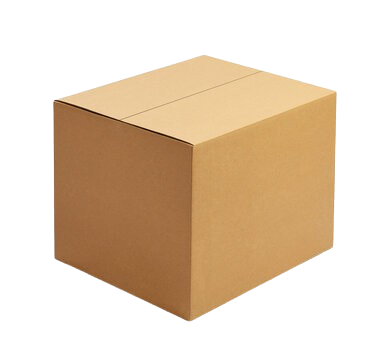
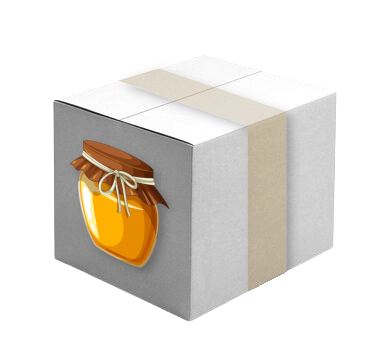
New png for box, settings bar added

diff --git a/script/game.js b/script/game.js
@@ -5,6 +5,7 @@ import { ClickImprovement } from './clickImprovement.js';
 import { ErrorManager, notEnoughError } from './errorManager.js';
 
 export class Game {
+    static settingsbutton = document.getElementById('settings');
     static deleteStoredDataButton = document.getElementById('deleteButton');
     static addButtonElement = document.getElementById('counterAdd');
     static currentTotal = 0;
@@ -21,7 +22,7 @@ export class Game {
     static startTimer = 0.0;
     static isSavingDisabled = false;
     static upgradeMap = new Map([
-        ["Honey-Maker", new Upgrade(1, 200, 1)],
+        ["Honey-Maker", new Upgrade(1, 200, 10)],
         ["Honey-Farm", new Upgrade(4, 500, 200)],
         ["Honey-Miner", new Upgrade(10, 10000, 2000)]
     ]);
@@ -43,7 +44,7 @@ export class Game {
 
     static initialize() {
         this.autoInterval = setInterval(this.refreshTimer.bind(this), 500);
-        this.onResize();
+
         this.idleFarmerElements.forEach((element) => {
             const name = element.getAttribute('data-upgrade');
             const upgrade = this.upgradeMap.get(name);
@@ -54,8 +55,9 @@ export class Game {
             upgrade.buttonUnlock.addEventListener('click', () => upgrade.onClickCounter());
             upgrade.buttonUpgrade.addEventListener('click', () => upgrade.onClickCounterUpgrade());
             upgrade.refreshSpeed();
+
         }, this);
-        this.refresh();
+        this.onResize();
     }
 
     static updateImage() {
@@ -69,7 +71,7 @@ export class Game {
     }
 
     static refresh() {
-        this.upgradeMap.forEach((upgrade) => upgrade.updateAvailableClass(this.totalEarned));
+        this.upgradeMap.forEach((upgrade) => upgrade.updateAvailableClass(this.totalEarned,this.currentTotal));
         const totalString = Math.floor(this.currentTotal).toLocaleString("en-us");
         document.title = `Honey : ${totalString}`;
         let config = this.updateImage();
@@ -186,7 +188,6 @@ export class Game {
             this.startTimer = state.startTimer;
 
             ClickImprovement.actualMilestone();
-            this.refresh();
         }
     }
 
@@ -199,11 +200,17 @@ export class Game {
             window.location.reload();
         }
     }
-}
 
+    static onClickSetting() {
+        this.settingsbutton.parentElement.parentElement.classList.toggle('active')
+    }
+}
 Game.loadState();
 Game.initialize();
+
+
 Game.update();
+Game.settingsbutton.addEventListener('click', ()=> Game.onClickSetting())
 Game.addButtonElement.addEventListener('mousedown', () => Game.onMouseDown());
 Game.deleteStoredDataButton.addEventListener('click', () => Game.clearState());
 ClickImprovement.improveClickElement.addEventListener('click', () => ClickImprovement.upgradeClick());

diff --git a/style.css b/style.css
@@ -2,33 +2,123 @@
 @import url('https://fonts.googleapis.com/css2?family=Varela+Round&display=swap');
 
 
-header {
-  position: fixed;
-    top: 0;
-    width: 100%;
-    height: 4dvh;
-    -webkit-text-stroke: 0px;
-    font-family: "Varela Round", sans-serif;
-    z-index: 2; 
 
-    
+
+
+
+#settingsBar {  
+  -webkit-text-stroke: 0px;
+  top: 1dvh;
+  position: fixed;
+  display: flex;
+  height: 0dvh;
+  flex-direction: column;
+  z-index: 1;
+  justify-content: space-between;
+  transition: 1s;
+  opacity: 1;
+  right: 0;
+}
+
+.settingsElement:first-child {
+  display: block;
+  z-index: 1;
+  opacity: 1;
+  pointer-events:auto;
+  
+}
+
+.settingsElement {
+  position: relative;
+  width: 0;
+  height: 0;
+  opacity: 0;
+  transition-delay: 1s;
 
 }
 
-span.material-symbols-outlined {
-  font-size: 24px; /* Taille de l'icône */
+.settingsElement > * {
+  position: absolute;
+  right: 0;
+  top: 0;
+}
+
+#settingsBar.active .settingsElement {
+  opacity: 1;
+  transition-delay: 0s;
+}
+
+#settingsBar.active {
+  height: 10dvh;
+}
+
+
+
+.settingsIcon {
+  margin-right: 1dvh;
+  padding: 0.5dvh;
+  border-radius: 50%;
+  transition: background 0.3s ease-in-out;
+  right: 0;
+  height: fit-content;
+  width: fit-content;
+
+}
+
+
+
+span.material-symbols-outlined.settingsIcon {
+  font-size: 1.5rem; /* Taille de l'icône */
   color: rgb(160, 0, 0);  /* Couleur de l'icône */
-  margin-top: 1dvh;
-  margin-left: 1dvh;
   padding: 0.5dvh;
   background: white;
   border-radius: 50%;
-  transition: background 0.3s ease-in-out;
+  
 }
+
+
 
 span.material-symbols-outlined:hover {
   background: grey;
   }
+
+
+
+#settings.material-symbols-outlined {
+  color: rgb(58, 58, 58);
+}
+
+
+
+
+
+
+
+
+
+
+
+
+
+
+
+
+
+
+
+
+
+
+
+
+
+
+
+
+
+
+
+
 
 
 
@@ -513,11 +603,10 @@ h1 {
     height: 6rem; 
     cursor: pointer;
     text-align: center;
+    background-color: var(--orange);
+    opacity: 1;
 }
 
-.counterAuto{
-    background-color: var(--orange);
-}
 
 
 .counterAutoUpgrade {
@@ -527,8 +616,28 @@ h1 {
  
 }
 
+
+.idleFarmer {
+  transition: opacity 0.6s ease;
+}
+
+
+.idleFarmer:not(.buyable) {
+  opacity: 0.5;
+  
+}
+
+.idleFarmer:not(.buyable) button {
+  background-color: grey;
+}
+
+.idleFarmer button {
+  transition: background-color 0.3s ease, opacity 0.3s ease;
+}
+
+
 .idleFarmer:not(.available) {
-  display: none;
+  opacity: 0;
 }
 
 /* .counterAuto:not(.available),.counterAutoUpgrade:not(.available) {

diff --git a/index.html b/index.html
@@ -8,13 +8,26 @@
   <link rel="preconnect" href="https://fonts.googleapis.com">
   <link rel="preconnect" href="https://fonts.gstatic.com" crossorigin>
   <link href="https://fonts.googleapis.com/css2?family=Roboto:ital,wght@0,100;0,300;0,400;0,500;0,700;0,900;1,100;1,300;1,400;1,500;1,700;1,900&display=swap" rel="stylesheet">
-  <link rel="stylesheet" href="https://fonts.googleapis.com/css2?family=Material+Symbols+Outlined:opsz,wght,FILL,GRAD@20..48,100..700,0..1,-50..200">
+  <link rel="stylesheet" href="https://fonts.googleapis.com/css2?family=Material+Symbols+Outlined&display=swap">
   <link rel="stylesheet" href="style.css">
 
   
 </head>
 <body>
-    <header><span id="deleteButton" class="material-symbols-outlined">delete</span></header>
+        <div id="settingsBar">
+        <div class="settingsElement">
+        <span id=settings  class="settingsIcon material-symbols-outlined" >settings</span>
+        </div>
+        <div class="settingsElement">
+            
+            <span id="deleteButton" class="settingsIcon material-symbols-outlined">delete</span>
+        </div>
+        <div class="settingsElement">
+            
+            <span id="deleteButton" class="settingsIcon material-symbols-outlined">delete</span>
+        </div>
+        </div>
+    
     
     <canvas id="newElementsContainer"></canvas>
     <div id="topPannel">

diff --git a/script/upgrade.js b/script/upgrade.js
@@ -27,10 +27,15 @@ export class Upgrade {
         this.refreshSpeed();
     }
 
-    updateAvailableClass(totalEarned) {
-        if (totalEarned >= this.milestones && this.element && this.element.classList) {
-            this.element.classList.add('available');
+    updateAvailableClass(totalEarned, totalCurrent) {
+        if (totalCurrent >= this.baseCost)  {
+            this.element.classList.add('buyable');
+
         }
+        
+        if (totalEarned >= this.milestones) {
+            this.element.classList.add('available');
+        } 
     }
 
     refreshSpeed() {
